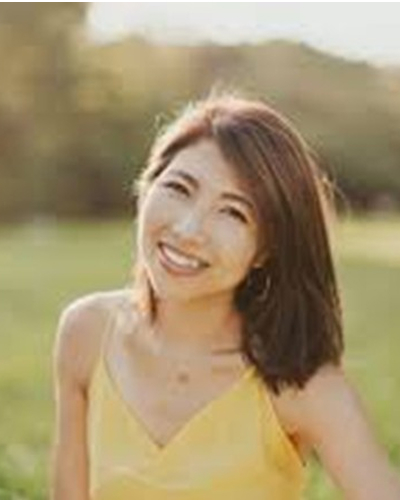
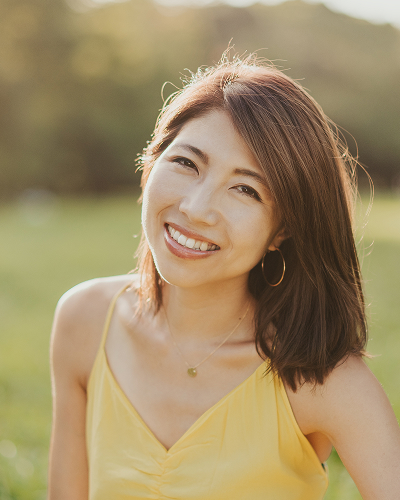
アドバイザー・アンバサダーページを作成

diff --git a/tournament/ambassador.html b/tournament/ambassador.html
@@ -13,7 +13,7 @@
 	<main class="l-main">
 	<section class="l-heading p-top__heading">
 		<div class="c-heading__container--main">
-			<h2 class="c-heading__main">大会情報</h2>
+			<h2 class="c-heading__main">アンバサダー</h2>
 		</div>
 	</section>
 	<section class="l-content">
@@ -25,7 +25,7 @@
 					<p class="c-text__guideline--caption">ランニング界で著名なインフルエンサー6名の方に就任いただき、「若者・女性応援」「インバウンド応援」など各分野を中心に、ランナー目線ならではの情報の発信やランニングイベントの開催など、オンライン、オフライン問わず、大会を盛り上げていただきます。</p>
 					<div class="c-block__guideline">
 						<div class="c-wrap__ambassador">
-							<p class="c-image__ambassador"><img src="/public/images/tournament/ambassador/img_wakana_fukushima.jpg" alt="写真：福島 和可菜さん"></p>
+							<p class="c-image__ambassador"><img src="/public/images/tournament/ambassador/img_wakana_fukushima.jpg" alt="写真：福島 和可菜さん"><img src="/public/images/tournament/ambassador/img_sp_wakana_fukushima.jpg" class="is-sp" alt="写真：福島 和可菜さん"></p>
 							<div class="c-block__member">
 								<p class="c-heading__position--ambassador">若者・女性応援</p>
 								<h5 class="c-heading__name--ambassador">福島 和可菜<span>（ふくしまわかな）</span></h5>
@@ -41,7 +41,7 @@
 							</div>
 						</div>
 						<div class="c-wrap__ambassador">
-							<p class="c-image__ambassador"><img src="/public/images/tournament/ambassador/img_tamujo.jpg" alt="写真：たむじょーさん"></p>
+							<p class="c-image__ambassador"><img src="/public/images/tournament/ambassador/img_tamujo.jpg" alt="写真：たむじょーさん"><img src="/public/images/tournament/ambassador/img_sp_tamujo.jpg" class="is-sp" alt="写真：たむじょーさん"></p>
 							<div class="c-block__member">
 								<p class="c-heading__position--ambassador">オフィシャル YouTuber</p>
 								<h5 class="c-heading__name--ambassador">たむじょー</h5>
@@ -58,7 +58,7 @@
 							</div>
 						</div>
 						<div class="c-wrap__ambassador">
-							<p class="c-image__ambassador"><img src="/public/images/tournament/ambassador/img_sui.jpg" alt="写真：SUIさん"></p>
+							<p class="c-image__ambassador"><img src="/public/images/tournament/ambassador/img_sui.jpg" alt="写真：SUIさん"><img src="/public/images/tournament/ambassador/img_sp_sui.jpg" class="is-sp" alt="写真：SUIさん"></p>
 							<div class="c-block__member c-block__ambassador">
 								<p class="c-heading__position--ambassador">インバウンド応援</p>
 								<h5 class="c-heading__name--ambassador">SUI<span>（すい）</span></h5>
@@ -87,7 +87,7 @@
 							</div>
 						</div>
 						<div class="c-wrap__ambassador">
-							<p class="c-image__ambassador"><img src="/public/images/tournament/ambassador/img_misato_tsuboi.jpg" alt="写真：坪井 ミサトさん"></p>
+							<p class="c-image__ambassador"><img src="/public/images/tournament/ambassador/img_misato_tsuboi.jpg" alt="写真：坪井 ミサトさん"><img src="/public/images/tournament/ambassador/img_sp_misato_tsuboi.jpg" class="is-sp" alt="写真：坪井 ミサトさん"></p>
 							<div class="c-block__member c-block__ambassador">
 								<p class="c-heading__position--ambassador">若者・女性応援</p>
 								<h5 class="c-heading__name--ambassador">坪井 ミサト<span>（つぼい）</span></h5>
@@ -103,7 +103,7 @@
 							</div>
 						</div>
 						<div class="c-wrap__ambassador">
-							<p class="c-image__ambassador"><img src="/public/images/tournament/ambassador/img_m_takashi.jpg" alt="写真：M高史さん"></p>
+							<p class="c-image__ambassador"><img src="/public/images/tournament/ambassador/img_m_takashi.jpg" alt="写真：M高史さん"><img src="/public/images/tournament/ambassador/img_sp_m_takashi.jpg" class="is-sp" alt="写真：M高史さん"></p>
 							<div class="c-block__member c-block__ambassador">
 								<p class="c-heading__position--ambassador">ファンランリーダー</p>
 								<h5 class="c-heading__name--ambassador">M高史<span>（えむたかし）</span></h5>
@@ -121,7 +121,7 @@
 							</div>
 						</div>
 						<div class="c-wrap__ambassador">
-							<p class="c-image__ambassador"><img src="/public/images/tournament/ambassador/img_makarun.jpg" alt="写真：まかランさん"></p>
+							<p class="c-image__ambassador"><img src="/public/images/tournament/ambassador/img_makarun.jpg" alt="写真：まかランさん"><img src="/public/images/tournament/ambassador/img_sp_makarun.jpg" class="is-sp" alt="写真：まかランさん"></p>
 							<div class="c-block__member c-block__ambassador">
 								<p class="c-heading__position--ambassador">インバウンド応援</p>
 								<h5 class="c-heading__name--ambassador">まかラン</h5>

diff --git a/src/assets/styles/_components.scss b/src/assets/styles/_components.scss
@@ -155,6 +155,14 @@
 		z-index: 1;
 		background-color: $color-container-light-blue;
 
+		@include respond-to() {
+			width: 70%;
+			max-width: none;
+			min-width: 272px;
+			display: block;
+			margin: 0 auto -14px;
+		}
+
 		img {
 			width: 100%;
 		}
@@ -223,9 +231,18 @@
 			margin-bottom: 32px;
 			font-size: 32px;
 			font-weight: bold;
+
+			@include respond-to() {
+				margin-bottom: 16px;
+				font-size: 24px;
+			}
 	
 			span {
 				font-size: 24px;
+
+				@include respond-to() {
+					font-size: 20px;
+				}
 			}
 		}
 
@@ -319,10 +336,49 @@
 
 	&__member {
 		flex: 1 0.5 236px;
+
+		@include respond-to() {
+			margin-bottom: 16px;
+			flex: 1 1 auto;
+			padding-bottom: calc((252 / 313) * 100%);
+			position: relative;
+			overflow: hidden;
+		}
+
+		img {
+			width: 100%;
+
+			@include respond-to() {
+				position: absolute;
+				top: 0;
+				left: 0;
+			}
+		}
+
 	}
 
 	&__ambassador {
 		flex: 1 0.5 200px;
+
+		@include respond-to() {
+			flex: 1 1 auto;
+		}
+
+		img {
+			width: 100%;
+
+			&.is-sp {
+				display: none;
+			}
+
+			@include respond-to() {
+				display: none;
+
+				&.is-sp {
+					display: block;
+				}
+			}
+		}
 	}
 
 	&__guideline {
@@ -1146,13 +1202,18 @@
 		border-top: 1px dashed $color-main-blue;
 		border-bottom: 1px dashed $color-main-blue;
 
+		@include respond-to() {
+			margin-bottom: 16px;
+			padding: 8px 0;
+		}
+
 		li {
 			margin-bottom: 8px;
 			font-size: 16px;
 			line-height: 1.6;
 			display: flex;
 			flex-wrap: wrap;
-			gap: 16px;
+			column-gap: 16px;
 
 			&:last-child {
 				margin-bottom: 0;
@@ -1286,6 +1347,10 @@
 			a {
 				color: $color-main-blue;
 			}
+
+			@include respond-to() {
+				margin-top: -46px;
+			}
 		}
 
 		a {
@@ -1331,6 +1396,10 @@
 		font-size: 16px;
 		line-height: 1.6;
 
+		@include respond-to() {
+			font-size: 14px;
+		}
+
 		&:last-child {
 			margin-bottom: 0;
 		}
@@ -1346,7 +1415,7 @@
 		}
 
 		&--translation {
-			font-size: 14px;
+			font-size: 12px;
 			line-height: 1.4;
 		}
 	}
@@ -1579,12 +1648,21 @@
 		margin-bottom: 24px;
 		display: flex;
 		gap: 32px;
+
+		@include respond-to() {
+			margin-bottom: 10px;
+			flex-direction: column;
+		}
 	}
 
 	&__ambassador {
 		margin-bottom: 32px;
 		display: flex;
 		gap: 24px;
+
+		@include respond-to() {
+			flex-direction: column;
+		}
 	}
 }
 
@@ -1603,6 +1681,10 @@
 	
 	&__member {
 		flex: 1 1 718px;
+
+		@include respond-to() {
+			flex: 1 1 auto;
+		}
 	}
 }
 
@@ -1612,6 +1694,10 @@
 		border: 1px solid $color-main-blue;
 		border-radius: 16px;
 		position: relative;
+
+		@include respond-to() {
+			padding: 24px 16px 16px;
+		}
 
 		&::before {
 			content: "";

diff --git a/src/include/header.html b/src/include/header.html
@@ -24,9 +24,9 @@
 								<li class="c-link__sub-navigation"><a href="/tournament/sponsorship.html">スポンサー</a></li>
 								<li class="c-link__sub- u-not-disp"><a>大学駅伝チーム</a></li>
 								<li class="c-link__sub-navigation u-not-disp"><a>スポンサー</a></li>
-								<li class="c-link__sub-navigation u-not-disp"><a>オフィシャルアドバイザー</a></li>
+								<li class="c-link__sub-navigation"><a href="/tournament/official.html">オフィシャルアドバイザー</a></li>
 								<li class="c-link__sub-navigation u-not-disp"><a>OFFICIAL PROGRAM</a></li>
-								<li class="c-link__sub-navigation u-not-disp"><a>オフィシャルアンバサダー</a></li>
+								<li class="c-link__sub-navigation"><a href="/tournament/ambassador.html">オフィシャルアンバサダー</a></li>
 								<li class="c-link__sub-navigation u-not-disp"><a>ゲストランナー</a></li>
 								<li class="c-link__sub-navigation u-not-disp"><a>オフィシャルグッズ</a></li>
 								<li class="c-link__sub-navigation u-not-disp"><a>招待選手</a></li>

diff --git a/tournament/official.html b/tournament/official.html
@@ -13,7 +13,7 @@
 	<main class="l-main">
 	<section class="l-heading p-top__heading">
 		<div class="c-heading__container--main">
-			<h2 class="c-heading__main">大会情報</h2>
+			<h2 class="c-heading__main">アドバイザー</h2>
 		</div>
 	</section>
 	<section class="l-content">
@@ -25,7 +25,7 @@
 				<div class="c-block__guideline">
 					<h4 class="c-heading__guideline">オフィシャルアドバイザー紹介</h4>
 					<div class="c-wrap__member">
-						<p class="c-image__member"><img src="/public/images/tournament/official/img_masako.jpg" alt="写真：千葉 真子さん"></p>
+						<p class="c-image__member p-official__image"><img src="/public/images/tournament/official/img_masako.jpg" alt="写真：千葉 真子さん"></p>
 						<div class="c-block__member">
 							<h5 class="c-heading__name--advisor">千葉 真子<span>さん</span></h5>
 							<ul class="c-list__career">

diff --git a/src/include/footer.html b/src/include/footer.html
@@ -55,14 +55,14 @@
 						<li class="c-link__navigation--footer-lv2 u-not-disp">
 							<a href="">大学駅伝チーム</a>
 						</li>
-						<li class="c-link__navigation--footer-lv2 u-not-disp">
-							<a href="">オフィシャルアドバイザー</a>
+						<li class="c-link__navigation--footer-lv2">
+							<a href="/tournament/official.html">オフィシャルアドバイザー</a>
 						</li>
 						<li class="c-link__navigation--footer-lv2 u-not-disp">
 							<a href="">OFFICIAL PROGRAM</a>
 						</li>
-						<li class="c-link__navigation--footer-lv2 u-not-disp">
-							<a href="">オフィシャルアンバサダー</a>
+						<li class="c-link__navigation--footer-lv2">
+							<a href="/tournament/ambassador.html">オフィシャルアンバサダー</a>
 						</li>
 						<li class="c-link__navigation--footer-lv2 u-not-disp">
 							<a href="">ゲストランナー</a>

diff --git a/src/assets/styles/page/_top.scss b/src/assets/styles/page/_top.scss
@@ -95,3 +95,17 @@
 		}
 	}
 }
+
+html[lang=en] {
+	.p-top {
+		&__countdown {
+			&--unit {
+				font-size: clamp(12px, 3vw, 16px);
+			}
+
+			&--number {
+				font-size: clamp(18px, 6vw, 30px);
+			}
+		}
+	}
+}

diff --git a/src/assets/styles/page/tournament/_ambassador.scss b/src/assets/styles/page/tournament/_ambassador.scss
@@ -1,0 +1,12 @@
+@use '../../variables' as *;
+@use '../../mixins' as *;
+
+.p-ambassador {
+	&__image {
+		img {
+			@include respond-to() {
+				top: -10.5%;
+			}
+		}
+	}
+}

diff --git a/src/assets/styles/page/tournament/_official.scss b/src/assets/styles/page/tournament/_official.scss
@@ -1,0 +1,12 @@
+@use '../../variables' as *;
+@use '../../mixins' as *;
+
+.p-official {
+	&__image {
+		img {
+			@include respond-to() {
+				top: -10.5%;
+			}
+		}
+	}
+}

diff --git a/src/assets/styles/main.scss b/src/assets/styles/main.scss
@@ -7,3 +7,4 @@
 
 @use 'page/top' as *;
 @use 'page/sponsorship' as *;
+@use 'page/tournament/official' as *;
